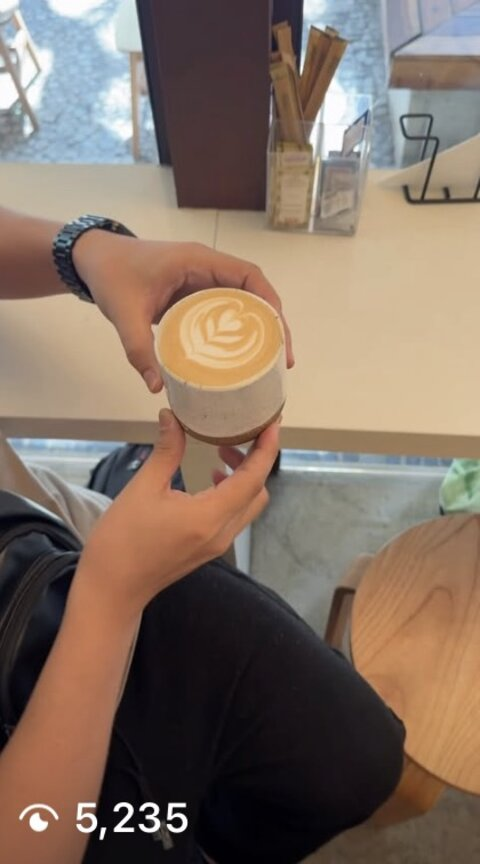
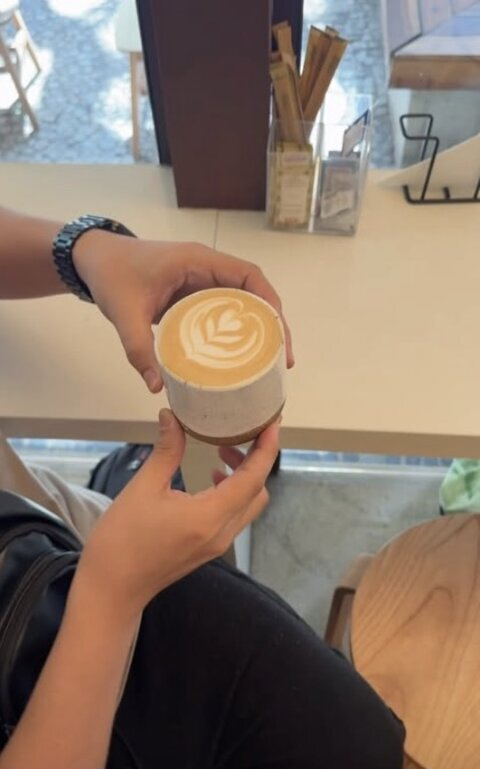
Add ASA Açaí cover photo; crop view-count overlays to only Ecorali and Meio do Mundo
Keeps the 15K/95.8K overlays (the two standout stats) and crops the
lower, less-impressive view counts off the rest of the portfolio covers.

Claude-Session: https://claude.ai/code/session_01QbWSJ4m6DaLrBPjjbyB7xX

diff --git a/media-kit/index.html b/media-kit/index.html
@@ -127,7 +127,9 @@
             </div>
           </a>
           <a class="portfolio-card" href="https://www.instagram.com/reel/DfIjsjmS9Ih/?hvrq=MTAxcG14MmdkbHpsYQ==" target="_blank" rel="noopener">
-            <div class="portfolio-thumb">ASA A&ccedil;a&iacute; &times; Rio</div>
+            <div class="portfolio-thumb has-image">
+              <img src="images/asa-acai.jpg" alt="Gringo vs. Açaí Toppings — Dan and a friend with a tray of açaí toppings for ASA Açaí" />
+            </div>
             <div class="portfolio-info">
               <div class="cap">ASA A&ccedil;a&iacute; &mdash; UGC Campaign</div>
               <div class="meta">Instagram Reel &middot; Food &amp; Beverage UGC</div>
